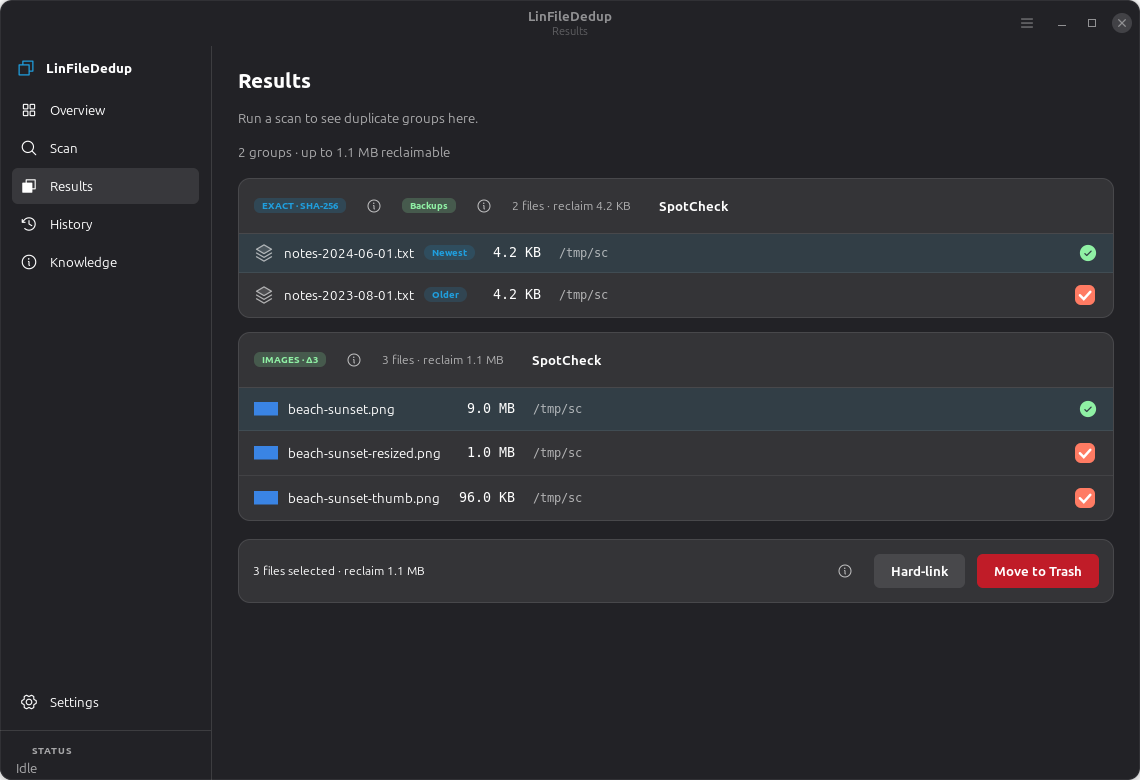
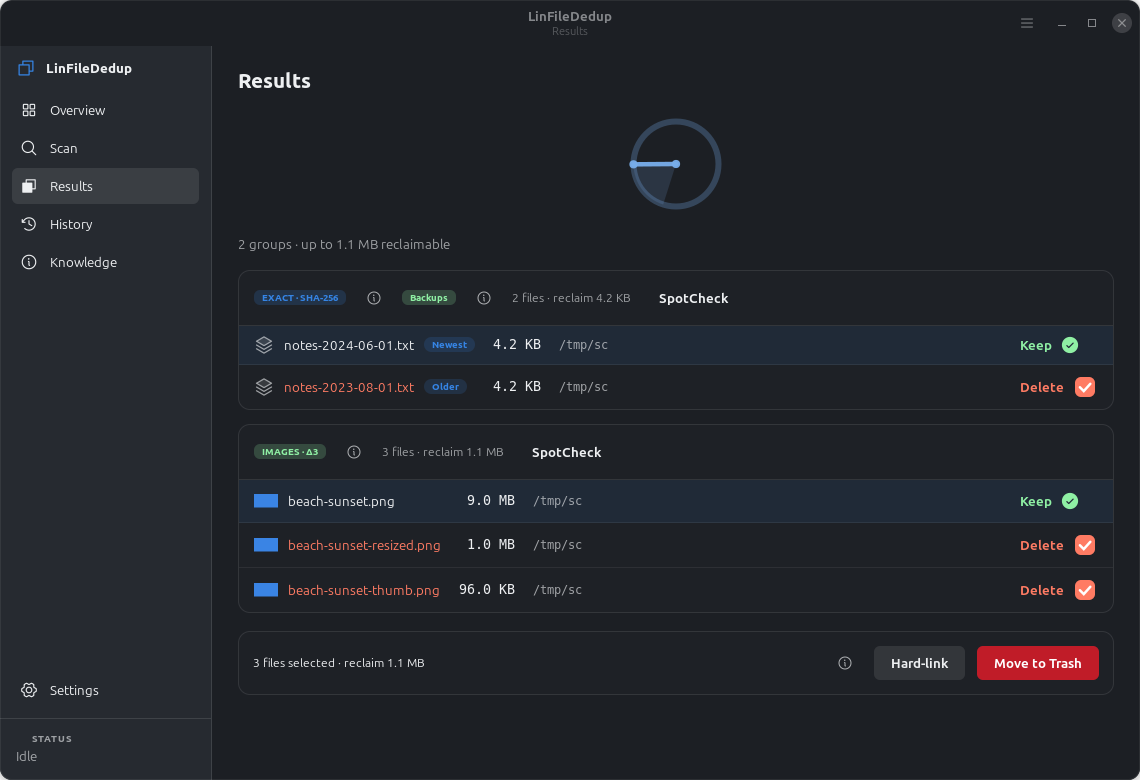
Visual pass: mockup palette, Results Keep/Delete columns, radar below title
- Theme: theme_loader now injects the approved mockup palette (content darker
  than the sidebar, lighter top bar) by overriding libadwaita named colours per
  effective theme, following system light/dark. Content stack gets .app-content.
- Sidebar: nudged the Settings / STATUS footer up.
- Results: moved the radar below the title at 100px and removed the redundant
  "Run a scan…" subtitle and "Scanning" text; rows now show a green "Keep" +
  check-circle and a red "Delete" + red checkbox, aligned via a size group, and
  the file marked for deletion has a red filename. Hard-link info icon added.
- Logging lifecycle unchanged; 30 tests pass. Refreshed screenshots.

diff --git a/data/css/app.css b/data/css/app.css
@@ -3,6 +3,9 @@
 
 .lfd-window { }
 
+/* main content area: darker than the sidebar for clear separation */
+.app-content { background-color: @view_bg_color; }
+
 /* sidebar */
 .app-sidebar {
   background-color: @sidebar_bg_color;
@@ -20,7 +23,7 @@
   font-size: 0.72em; font-weight: 800; letter-spacing: 1px;
   margin: 6px 16px 2px; opacity: 0.6;
 }
-.app-footer { border-top: 1px solid alpha(@window_fg_color, 0.12); padding: 8px 16px 4px; margin-top: 4px; }
+.app-footer { border-top: 1px solid alpha(@window_fg_color, 0.12); padding: 8px 16px 4px; margin-top: 4px; margin-bottom: 12px; }
 
 .app-live-dot { min-width: 8px; min-height: 8px; border-radius: 50%; background-color: @success_color; margin: 0 2px; }
 @keyframes app-breathe { 0% { opacity: 0.25; } 50% { opacity: 1; } 100% { opacity: 0.25; } }
@@ -66,7 +69,11 @@
 
 /* results selection markers */
 .app-del-check check:checked { background-color: @error_color; border-color: @error_color; color: #ffffff; }
+.app-del-check check { border-color: @error_color; }
 .app-keep-check { color: @success_color; }
+.app-keep-text { color: @success_color; font-weight: 700; }
+.app-del-text { color: @error_color; font-weight: 700; }
+.app-del-name { color: @error_color; }
 
 /* badges */
 .app-kind-exact, .app-kind-image, .app-keepbadge {

diff --git a/src/linfilededuplication/ui/pages/results.py b/src/linfilededuplication/ui/pages/results.py
@@ -1,7 +1,9 @@
 """Results: duplicate groups with previews, selection, and safe actions."""
 from __future__ import annotations
 
-from gi.repository import Adw, Gtk
+import time
+
+from gi.repository import Adw, GLib, Gtk
 
 from linfilededuplication.core.model import KIND_IMAGE, KIND_SIMILAR, DuplicateGroup, FileEntry
 from linfilededuplication.core.units import human_bytes
@@ -10,17 +12,25 @@ from linfilededuplication.services import actions
 from linfilededuplication.ui.pages.base import BasePage
 from linfilededuplication.ui.widgets.common import badge, icon
 from linfilededuplication.ui.widgets.info_hint import InfoHint
+from linfilededuplication.ui.widgets.scan_spinner import RadarSpinner
 
 
 class ResultsPage(BasePage):
     page_id = "results"
     title = _("Results")
     clamp_max = 0           # fill the window for the spreadsheet-like file list
+    MIN_SPIN = 1.6          # keep the radar visible at least this long
 
     def build_content(self) -> None:
         self._groups: list[dict] = []       # {group, keeper, checks:[(CheckButton, FileEntry)], widget}
 
-        self.add_heading(_("Results"), _("Run a scan to see duplicate groups here."))
+        self.add_heading(_("Results"))
+        spin_box = Gtk.Box(halign=Gtk.Align.CENTER)
+        spin_box.set_margin_top(4)
+        spin_box.set_margin_bottom(4)
+        self.spinner = RadarSpinner(100)        # shown below the title while scanning
+        spin_box.append(self.spinner)
+        self.add(spin_box)
         self.summary = Gtk.Label(label="", xalign=0.0)
         self.summary.add_css_class("app-dim")
         self.add(self.summary)
@@ -61,8 +71,10 @@ class ResultsPage(BasePage):
             self.groups_box.remove(child)
             child = nxt
         self._groups.clear()
-        self.summary.set_text(_("Scanning…"))
+        self.summary.set_text("")               # the radar shows scanning; no text needed
         self.action_bar.set_visible(False)
+        self._scan_start = time.monotonic()
+        self.spinner.start()
 
     def _on_group(self, _c, group: DuplicateGroup) -> None:
         record = {"group": group, "keeper": group.keeper, "checks": []}
@@ -73,6 +85,12 @@ class ResultsPage(BasePage):
         self._refresh_selection()
 
     def _on_finished(self, _c, fin) -> None:
+        elapsed = time.monotonic() - getattr(self, "_scan_start", 0.0)
+        remaining = self.MIN_SPIN - elapsed
+        if remaining > 0:
+            GLib.timeout_add(int(remaining * 1000), lambda: (self.spinner.stop(), False)[1])
+        else:
+            self.spinner.stop()
         if not self._groups:
             self.summary.set_text(_("No duplicates found."))
             return
@@ -117,12 +135,13 @@ class ResultsPage(BasePage):
         # size groups align the Name and Size columns across rows (spreadsheet style)
         name_sg = Gtk.SizeGroup(mode=Gtk.SizeGroupMode.HORIZONTAL)
         size_sg = Gtk.SizeGroup(mode=Gtk.SizeGroupMode.HORIZONTAL)
+        sel_sg = Gtk.SizeGroup(mode=Gtk.SizeGroupMode.HORIZONTAL)
         for f in group.files:
-            card.append(self._file_row(f, group, record, name_sg, size_sg))
+            card.append(self._file_row(f, group, record, name_sg, size_sg, sel_sg))
         return card
 
     def _file_row(self, f: FileEntry, group: DuplicateGroup, record: dict,
-                  name_sg: Gtk.SizeGroup, size_sg: Gtk.SizeGroup) -> Gtk.Box:
+                  name_sg: Gtk.SizeGroup, size_sg: Gtk.SizeGroup, sel_sg: Gtk.SizeGroup) -> Gtk.Box:
         row = Gtk.Box(spacing=18)
         row.add_css_class("app-file-row")
         if f.keeper:
@@ -134,6 +153,8 @@ class ResultsPage(BasePage):
         name = Gtk.Label(label=f.name, xalign=0.0)
         name.set_ellipsize(3)                # PANGO_ELLIPSIZE_END
         name.set_max_width_chars(46)
+        if not f.keeper:
+            name.add_css_class("app-del-name")   # the file marked for deletion reads red
         namecell.append(name)
         if f.is_backup:
             namecell.append(badge(_("Newest") if f.is_newest else _("Older"), "app-keepbadge"))
@@ -155,14 +176,20 @@ class ResultsPage(BasePage):
         path.set_tooltip_text(f.path)
         row.append(path)
 
-        # column 4: keep (green circle) or remove (red check)
+        # column 4: "Keep" + green circle, or "Delete" + red check (aligned across rows)
+        sel = Gtk.Box(spacing=8, halign=Gtk.Align.END)
+        sel.set_valign(Gtk.Align.CENTER)
         if f.keeper:
-            keep = icon("app-status-success-symbolic", 20)
-            keep.add_css_class("app-keep-check")
-            keep.set_tooltip_text(_("Kept"))
-            keep.set_valign(Gtk.Align.CENTER)
-            row.append(keep)
+            lbl = Gtk.Label(label=_("Keep"))
+            lbl.add_css_class("app-keep-text")
+            marker = icon("app-status-success-symbolic", 20)
+            marker.add_css_class("app-keep-check")
+            marker.set_tooltip_text(_("Kept"))
+            sel.append(lbl)
+            sel.append(marker)
         else:
+            lbl = Gtk.Label(label=_("Delete"))
+            lbl.add_css_class("app-del-text")
             check = Gtk.CheckButton()
             check.add_css_class("app-del-check")
             check.set_active(True)
@@ -170,7 +197,10 @@ class ResultsPage(BasePage):
             check.set_tooltip_text(_("Marked for removal"))
             check.connect("toggled", lambda _c: self._refresh_selection())
             record["checks"].append((check, f))
-            row.append(check)
+            sel.append(lbl)
+            sel.append(check)
+        sel_sg.add_widget(sel)
+        row.append(sel)
         return row
 
     def _thumb(self, f: FileEntry) -> Gtk.Widget:

diff --git a/src/linfilededuplication/ui/theme_loader.py b/src/linfilededuplication/ui/theme_loader.py
@@ -1,4 +1,9 @@
-"""Loads the app stylesheet and drives light/dark through libadwaita."""
+"""Loads the app stylesheet, drives light/dark, and injects the house colour palette.
+
+The palette matches the approved mockup exactly (content darker than the sidebar, a lighter
+top bar) by overriding libadwaita's named colours per effective theme, and re-injects when the
+system theme changes.
+"""
 from __future__ import annotations
 
 from gi.repository import Adw, Gdk, Gtk
@@ -9,18 +14,72 @@ _SCHEMES = {
     "dark": Adw.ColorScheme.FORCE_DARK,
 }
 
+# Exact mockup palette, overriding libadwaita named colours.
+_DARK = {
+    "window_bg_color": "#1c1f24",
+    "view_bg_color": "#1c1f24",
+    "sidebar_bg_color": "#262a30",
+    "headerbar_bg_color": "#2a2e35",
+    "card_bg_color": "#1e2126",
+    "popover_bg_color": "#2a2e35",
+    "dialog_bg_color": "#1c1f24",
+    "window_fg_color": "#eef0f2",
+    "view_fg_color": "#eef0f2",
+    "accent_bg_color": "#3584e4",
+    "accent_fg_color": "#ffffff",
+    "accent_color": "#78aeea",
+}
+_LIGHT = {
+    "window_bg_color": "#fafafb",
+    "view_bg_color": "#fafafb",
+    "sidebar_bg_color": "#f2f2f2",
+    "headerbar_bg_color": "#ebebeb",
+    "card_bg_color": "#ffffff",
+    "popover_bg_color": "#ffffff",
+    "dialog_bg_color": "#fafafb",
+    "window_fg_color": "#22262a",
+    "view_fg_color": "#22262a",
+    "accent_bg_color": "#3584e4",
+    "accent_fg_color": "#ffffff",
+    "accent_color": "#1c5fb4",
+}
+
 
 class ThemeLoader:
     def __init__(self, css_path: str) -> None:
-        self._provider = Gtk.CssProvider()
+        self._style = "system"
+        self._app = Gtk.CssProvider()
         try:
-            self._provider.load_from_path(css_path)
+            self._app.load_from_path(css_path)
         except Exception:
             pass
+        self._tokens = Gtk.CssProvider()
         display = Gdk.Display.get_default()
         if display is not None:
             Gtk.StyleContext.add_provider_for_display(
-                display, self._provider, Gtk.STYLE_PROVIDER_PRIORITY_APPLICATION)
+                display, self._app, Gtk.STYLE_PROVIDER_PRIORITY_APPLICATION)
+            # token overrides sit above app.css so @define-color wins over the theme
+            Gtk.StyleContext.add_provider_for_display(
+                display, self._tokens, Gtk.STYLE_PROVIDER_PRIORITY_APPLICATION + 1)
+        self._sm = Adw.StyleManager.get_default()
+        self._sm.connect("notify::dark", lambda *_: self._reload_tokens())
 
     def apply(self, style: str) -> None:
-        Adw.StyleManager.get_default().set_color_scheme(_SCHEMES.get(style, Adw.ColorScheme.DEFAULT))
+        self._style = style
+        self._sm.set_color_scheme(_SCHEMES.get(style, Adw.ColorScheme.DEFAULT))
+        self._reload_tokens()
+
+    def _effective_dark(self) -> bool:
+        if self._style == "dark":
+            return True
+        if self._style == "light":
+            return False
+        return self._sm.get_dark()
+
+    def _reload_tokens(self) -> None:
+        palette = _DARK if self._effective_dark() else _LIGHT
+        css = "".join(f"@define-color {name} {value};\n" for name, value in palette.items())
+        try:
+            self._tokens.load_from_data(css.encode())
+        except Exception:
+            pass

diff --git a/src/linfilededuplication/ui/window.py b/src/linfilededuplication/ui/window.py
@@ -6,9 +6,8 @@ decoration layout (the default on GNOME and Cinnamon).
 from __future__ import annotations
 
 import logging
-import time
 
-from gi.repository import Adw, GLib, Gio, Gtk
+from gi.repository import Adw, Gio, Gtk
 
 from linfilededuplication import APP_NAME
 from linfilededuplication.config.layout import (
@@ -17,9 +16,7 @@ from linfilededuplication.i18n import _
 from linfilededuplication.services.scan_controller import ScanController
 from linfilededuplication.ui.pages import DEFAULT_PAGE, PAGES
 from linfilededuplication.ui.sidebar import Sidebar
-from linfilededuplication.ui.widgets.scan_spinner import RadarSpinner
 
-SCAN_MIN_SECONDS = 1.6      # minimum time the scanning indicator stays visible
 log = logging.getLogger("linfilededuplication.window")
 
 
@@ -46,14 +43,12 @@ class MainWindow(Adw.ApplicationWindow):
         menu_btn = Gtk.MenuButton(icon_name="app-app-menu-symbolic", menu_model=menu,
                                   tooltip_text=_("Main menu"))
         header.pack_end(menu_btn)
-        self.scan_spinner = RadarSpinner(24)    # shown in the header while a scan runs
-        self.scan_spinner.set_tooltip_text(_("Scanning…"))
-        header.pack_start(self.scan_spinner)
 
         # sidebar + stack
         self.sidebar = Sidebar(PAGES)
         self.sidebar.connect("page-changed", lambda _s, pid: self.show_page(pid))
         self.stack = Gtk.Stack(hexpand=True, vexpand=True)
+        self.stack.add_css_class("app-content")
         self.stack.set_transition_type(Gtk.StackTransitionType.CROSSFADE)
         self.stack.set_transition_duration(120)
 
@@ -136,10 +131,8 @@ class MainWindow(Adw.ApplicationWindow):
 
     def _on_scan_started(self, _c, _root: str) -> None:
         self._group_count = 0
-        self._scan_start = time.monotonic()
         self.sidebar.set_count("results", 0)
         self.sidebar.set_running("scan", True)
-        self.scan_spinner.start()
         log.info("scan started: %s", _root)
 
     def _on_group_found(self, _c, _group) -> None:
@@ -147,18 +140,8 @@ class MainWindow(Adw.ApplicationWindow):
         self.sidebar.set_count("results", self._group_count)
 
     def _on_scan_finished(self, _c, fin) -> None:
-        # Keep the scanning indicator visible at least SCAN_MIN_SECONDS, even on a fast scan.
-        elapsed = time.monotonic() - getattr(self, "_scan_start", 0.0)
-        remaining = SCAN_MIN_SECONDS - elapsed
-        if remaining > 0:
-            GLib.timeout_add(int(remaining * 1000), lambda: (self._scan_finished_ui(fin), False)[1])
-        else:
-            self._scan_finished_ui(fin)
-
-    def _scan_finished_ui(self, fin) -> None:
         log.info("scan finished: groups=%d files=%d reclaimable=%d cancelled=%s (%.2fs)",
                  fin.groups, fin.files_scanned, fin.reclaimable, fin.cancelled, fin.seconds)
-        self.scan_spinner.stop()
         self.sidebar.set_running("scan", False)
         if not fin.cancelled and fin.groups:
             self.toast(_("Found {n} duplicate groups").format(n=fin.groups))

diff --git a/.claude/memory/decisions.md b/.claude/memory/decisions.md
@@ -16,6 +16,6 @@
 | 2026-09-29 | SpotCheck is an Adw.Dialog opened from Results | Keeps selection context; a gate that never deletes on its own. |
 | 2026-09-29 | Advanced similarity uses content-defined anchor sampling (gear rolling hash) + Jaccard | Shift-resistant to edits/insertions; bounded to smallish files for pure-Python performance. |
 | 2026-09-29 | System tray via XApp.StatusIcon, not AppIndicator3 | AppIndicator3 is GTK3-only and cannot mix into a GTK4 process; XApp is GTK-agnostic and native on Mint/Cinnamon. Detected capability. |
-| 2026-09-29 | App icon is an original design (overlapping cards + accent check) | Avoids any third-party/brand icon; Phosphor (MIT) only for in-app symbolic glyphs. |
+| 2026-09-29 | App icon (superseded, see below): first a hand-drawn cards+check design | Later replaced by the local-Phosphor composition to follow the house iconography convention. |
 | 2026-09-29 | Near-identical (SIMILAR) groups are review-only, never auto-removed | Unlike exact matches, similar files differ in content, so SpotCheck/confirmation is required. |
 | 2026-09-29 | App icon composed from local Phosphor iconography, not a custom drawing | House convention (docs/05-iconography.md §5.6): compose the app icon from the vendored Phosphor glyphs. |

diff --git a/changelog.md b/changelog.md
@@ -25,3 +25,4 @@ Append-only. Format: `| ISO-8601 datetime | description |`.
 | 2026-09-29 | Results rows redesigned as an aligned spreadsheet layout (Name | Size | Path | selector) via size groups; path column fills width and ellipsizes; keeper shows a green check-circle, candidates a red checked box; Results fills the window; info icon added next to Hard-link. |
 | 2026-09-29 | App icon recomposed from local Phosphor glyphs (`copy` + `check-circle` badge on an accent tile) per docs/05-iconography.md §5.6, replacing the hand-drawn icon. |
 | 2026-09-29 | Logging now actually works: file log populates (startup banner, lifecycle, scan start/finish, destructive-action outcomes) + GLib/GTK message capture + Python excepthook, to ~/.local/state/<app-id>/linfilededuplication.log. |
+| 2026-09-29 | Visual pass: app now uses the approved mockup palette (content darker than sidebar, lighter top bar) via theme_loader token overrides for both themes + system-follow; sidebar footer nudged up; radar moved below the Results title at 100px (removed the "Run a scan…"/"Scanning" text); Results rows show green "Keep"+circle and red "Delete"+checkbox aligned, with the deletion filename in red. |
